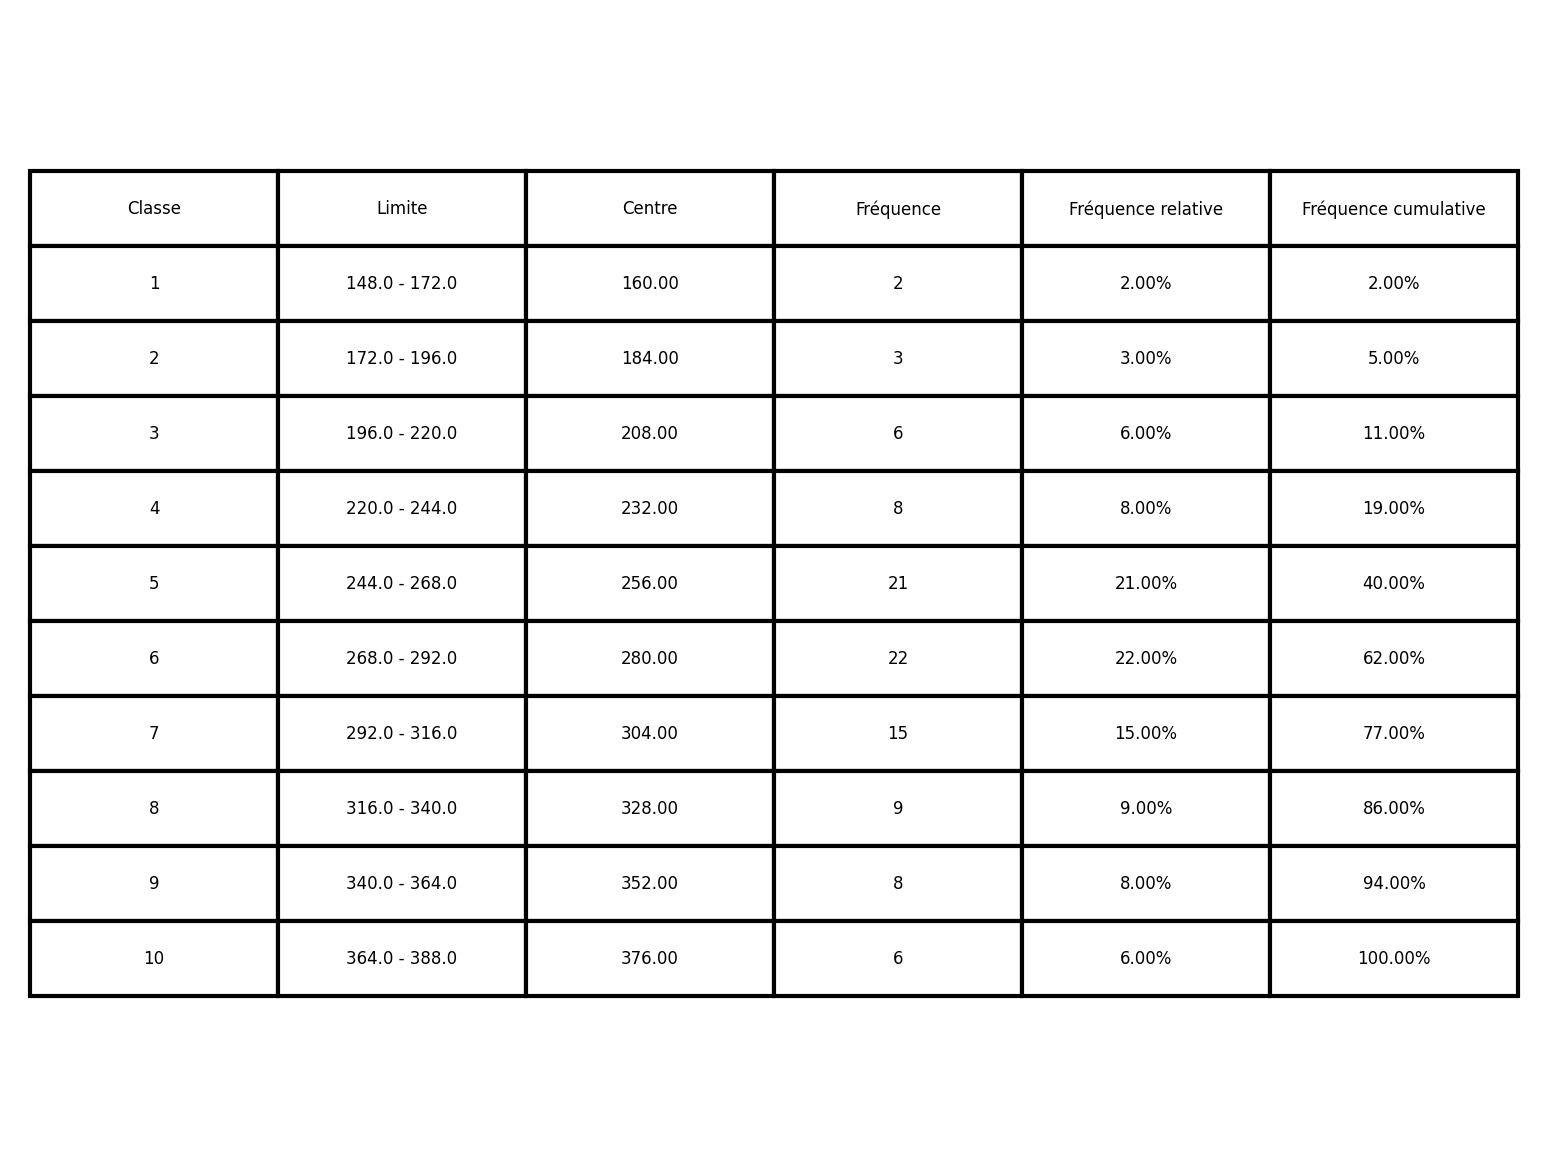
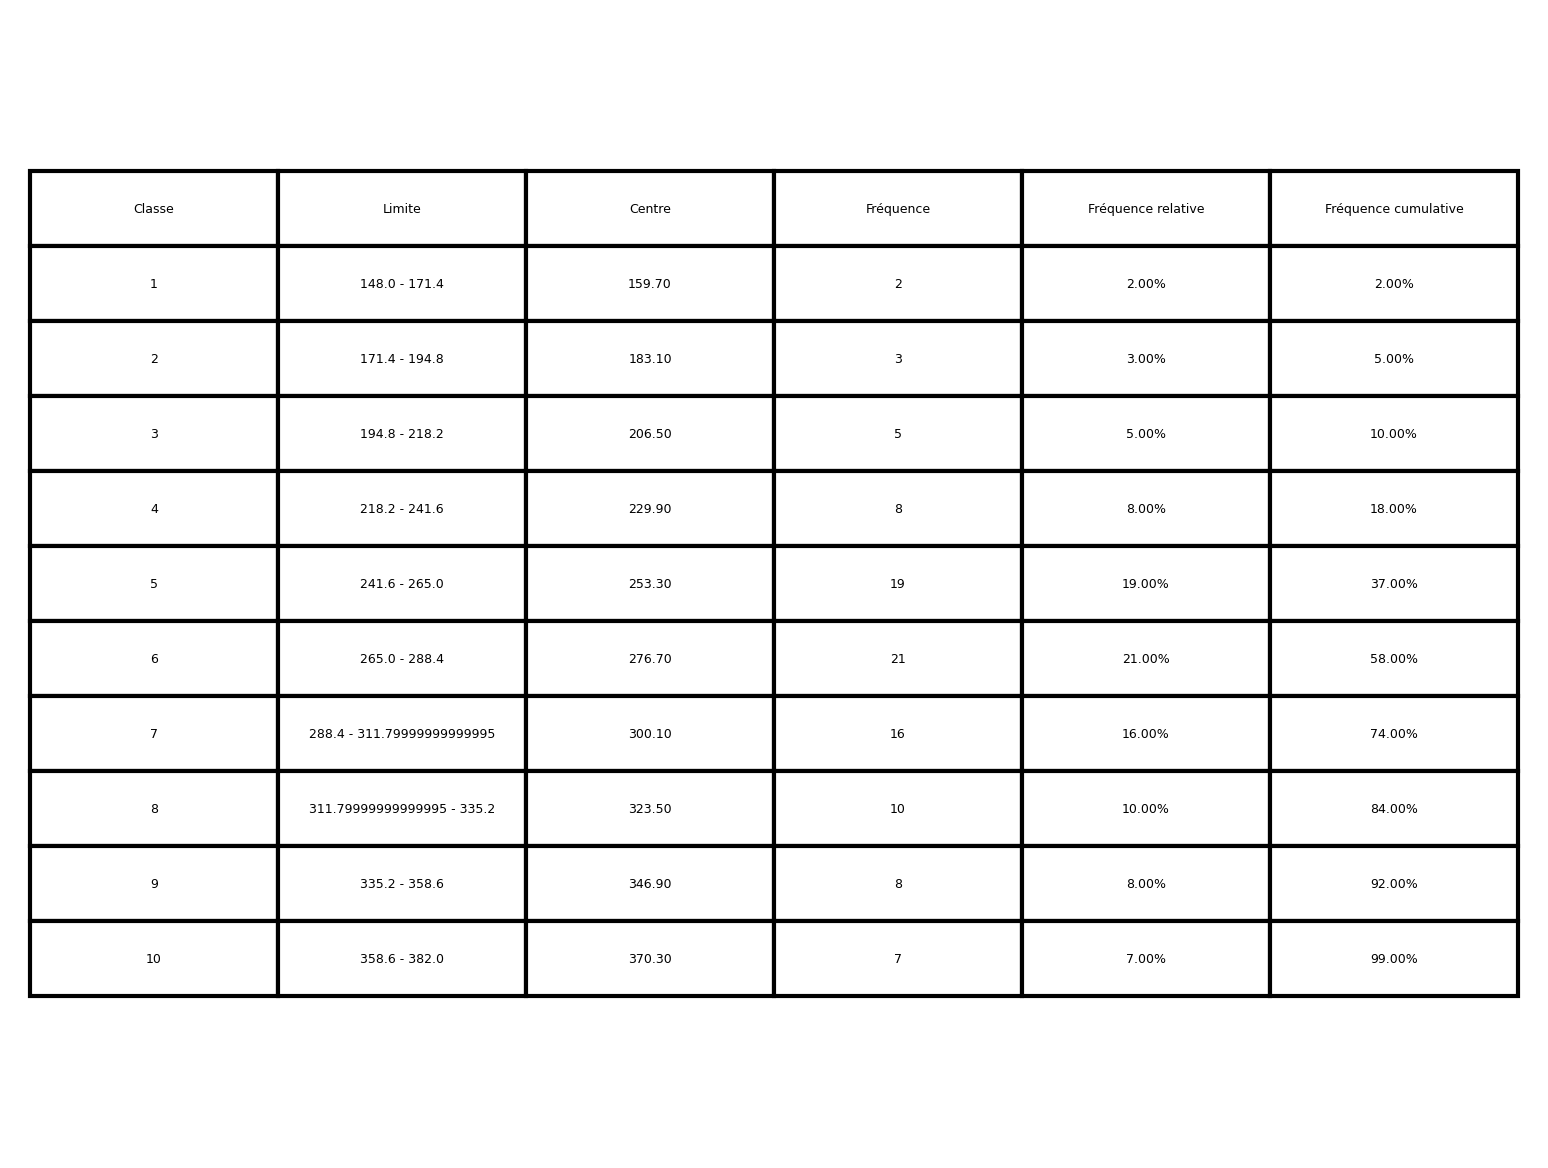
start mandat 3

diff --git a/main.py b/main.py
@@ -17,13 +17,13 @@ def get_desc_stats(data):
     max = np.max(data)
 
     return {
-        'Moyenne': mean,
-        'Médiane': median,
-        'Mode': mode,
-        'Écart-type': std,
-        'Variance': var,
-        'Minimum': min,
-        'Maximum': max
+        'mean': mean,
+        'med': median,
+        'mode': mode,
+        'std': std,
+        'var': var,
+        'min': min,
+        'max': max
     }
 
 
@@ -74,7 +74,6 @@ def get_histogram_data(data):
     min_value = np.min(data)
     max_value = np.max(data)
     interval_len = (max_value - min_value) / bin_number
-    interval_len = math.ceil(interval_len)
 
     bins = []
     cumul_freq = 0
@@ -107,11 +106,37 @@ def display_histogram(binwidth, data):
     plt.savefig("histogramme", bbox_inches='tight', dpi=300)
     plt.show()
 
+def calculate_confidence_interval(data):
+    z = 1.96
+    mean = stat.mean(data)
+    std = stat.stdev(data)
 
-if __name__ == '__main__':
+    error = z * std / np.sqrt(len(data))
+    lower_interval = mean - error
+    upper_interval = mean + error
+
+    return lower_interval, upper_interval
+
+def mandat_2():
     values = get_values("./TempsDeJeu.txt")
     stats = get_desc_stats(values)
-    display_stats_table(stats)
-    bins, interval_len = get_histogram_data(values)
-    display_histogram(interval_len, values)
-    display_histogram_table(bins)
+    # display_stats_table(stats)
+    # bins, interval_len = get_histogram_data(values)
+    # display_histogram(interval_len, values)
+    # display_histogram_table(bins)
+    print(calculate_confidence_interval(values))
+
+def mandat_3():
+    N = 10_000
+    arrival_rate = 5
+    mean = 1/arrival_rate
+    x = np.linspace(0, 10_000, 5)
+    P = arrival_rate * np.exp(-arrival_rate * x)
+
+    plt.plot(x, P)
+    plt.show()
+
+
+if __name__ == '__main__':
+    # mandat_2()
+    mandat_3()
